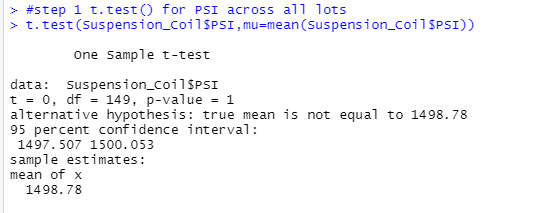
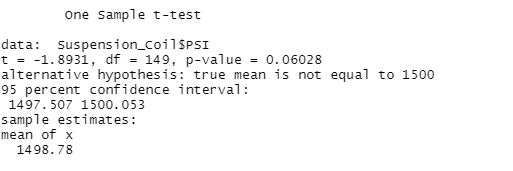
adding revised charts for delverable 3 and read me

diff --git a/README.md b/README.md
@@ -41,39 +41,27 @@
 ![Resources/D3_AllTTest.png](Resources/D3_AllTTest.png) 
 
 **D3.1** *T-test for PSI across all lots*
-- The p-value is 1 suggesting there is low significance. 
-- DF=149
-- The t-value is 0.
-- The mean of x is 1498.78.
-- 95 % is within 1497.507 - 1500.053 confidence interval.
+- The p-value is 0.06028 suggesting  there are is very weak or no correlation.
+- The t-value is -1.8931.
+- There is insufficient data to reject the null hypothesis with 95 % confidence interval.
 
 ![Resources/D3_Lot1.png](Resources/D3_Lot1.png) 
 
 **D3.2** *T-test for PSI across lot 1*
-- The p-value is 1.568e-11 which is much smaller than 5 suggesting a extreme significance. 
-- DF=49
-- The t-value is 8.7161
-- The mean of x is 1500.
-- 95 % is within 1499.719 - 1500.281 confidence interval.
-
+- The p-value is 1 meaning there is insufficent evidence to reject the null with a 95% confidence interval.
+- The t-value is 0.
 
 ![Resources/D3_Lot2.pngg](Resources/D3_Lot2.png) 
 
 **D3.3** *T-test for PSI across lot 2*
-- The p-value is 0.0005911 suggesting a very high signficance.
-- DF=49
-- The t-value is 3.6739.
-- The mean of x is 1500.2.
-- 95 % is within 1499.423 - 1500.977 confidence interval.
+- The p-value is 0.6072 suggesting there is insufficient evidence to reject the null with a 95% confidence interval.
+- The t-value is 0.517
 
 ![Resources/D3_Lot3.png](Resources/D3_Lot3.png) 
 
 **D3.4** *T-test for PSI across lot 3*
-- The p-value is 0.1589 suggesting low significance.
-- DF=49
-- The t-value is -1.4305.
-- The mean of x is 1496.14.
-- 95 % is within 1492.431 - 1499.849 confidence interval suggesting 95% values plus whatever is the to the left is under 1500.
+- The p-value is 0.04168  which means there is suffience evidence to reject the null with a 95% confidence interval. Lot 3 is different enough from the rest of the data and was not due to chance.
+- The t-value is -2.0916.
 
 ## Study Design: MechaCar vs Competition
 **1. Metrics the consumers would care about**
